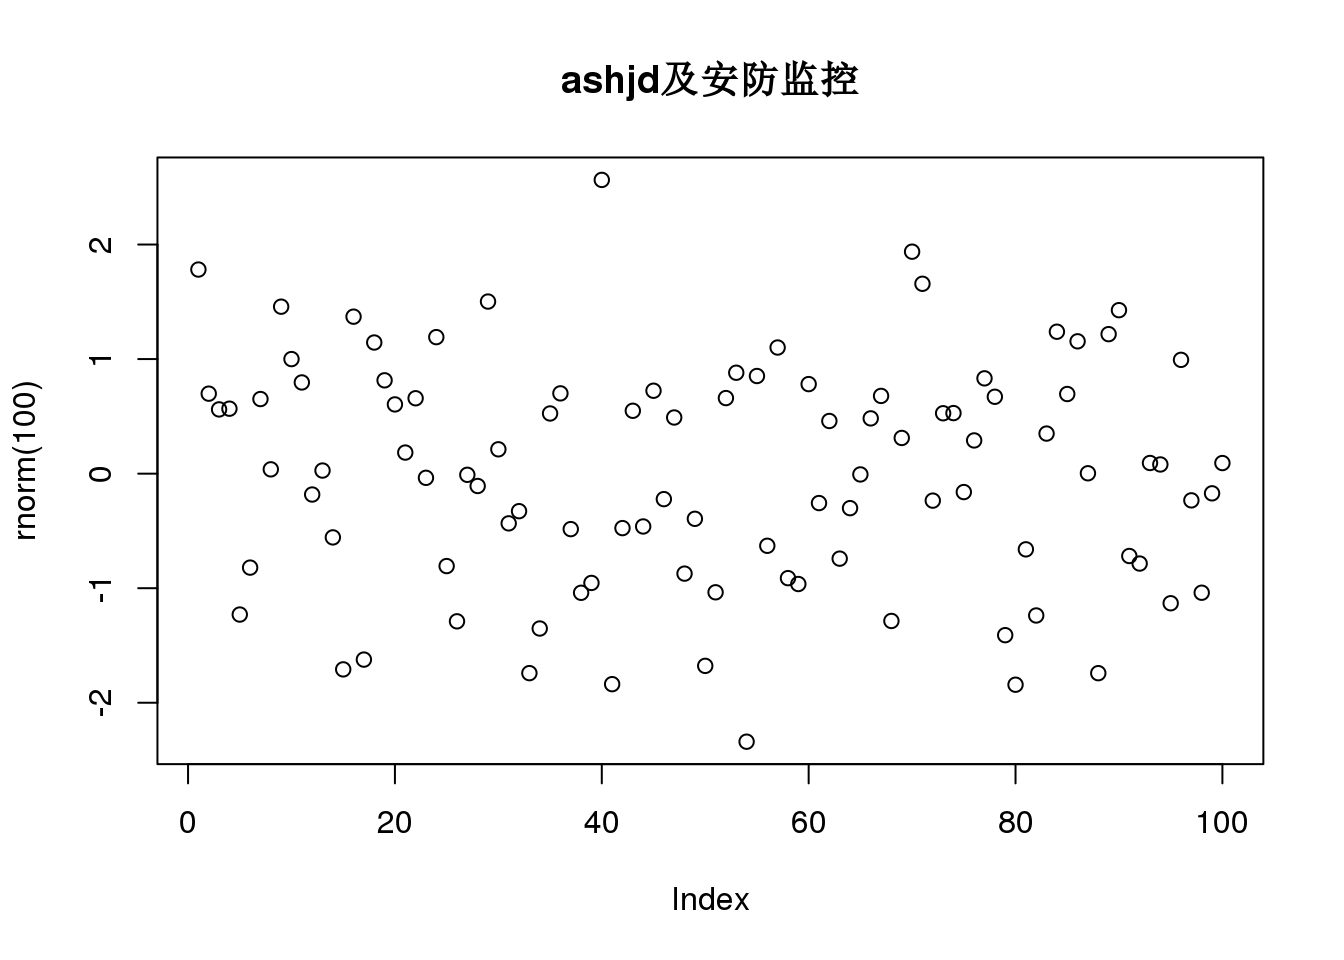
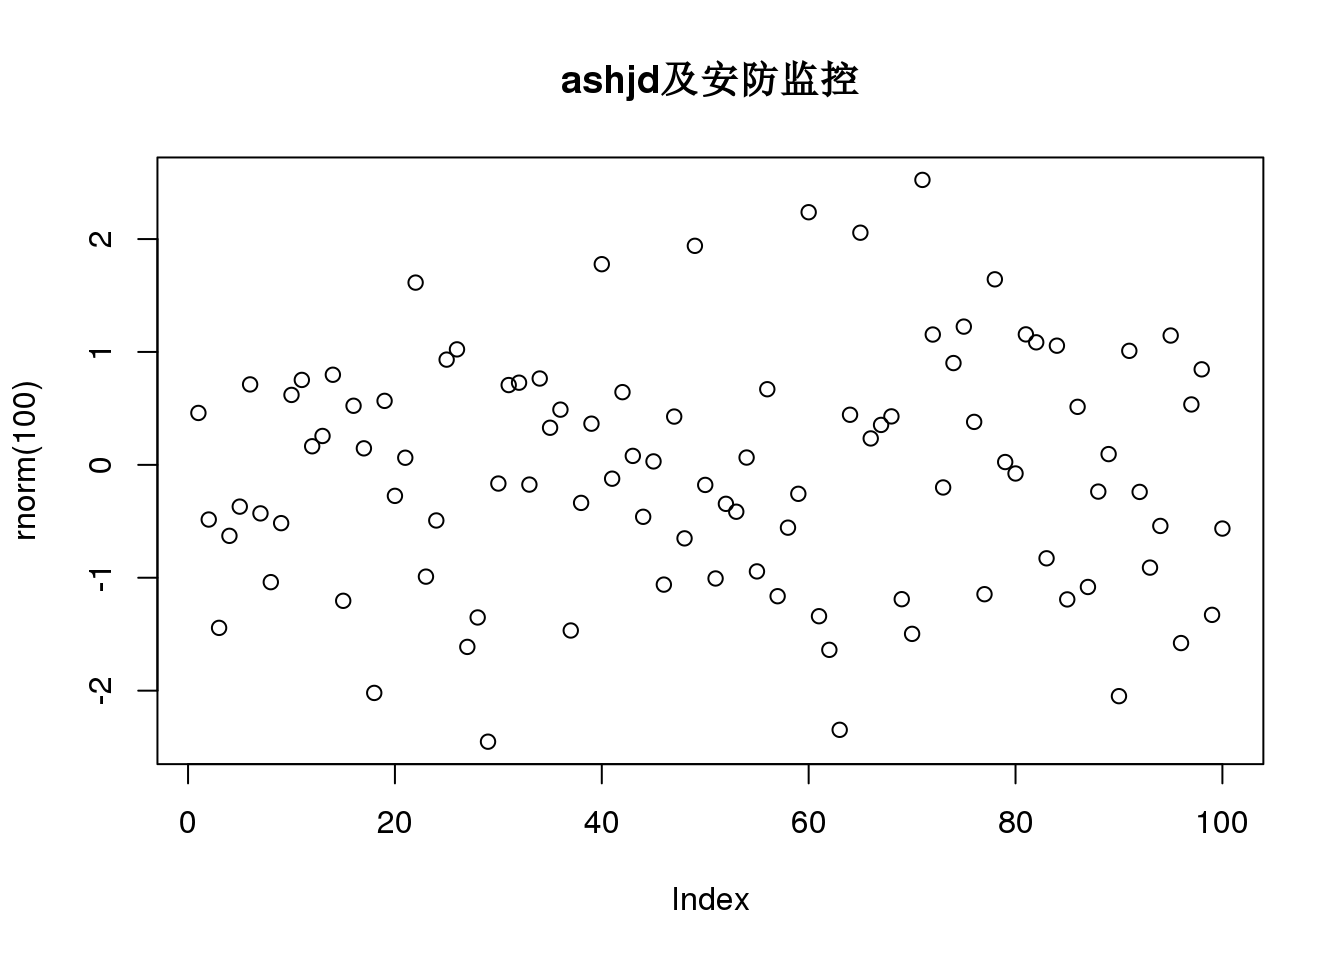
update

diff --git a/content/post/2018-02-05-try中嗯.html b/content/post/2018-02-05-try中嗯.html
@@ -14,3 +14,5 @@ tags:
 
 <pre class="r"><code>plot(rnorm(100), main = &quot;ashjd及安防监控&quot;)</code></pre>
 <p><img src="/post/2018-02-05-try%E4%B8%AD%E5%97%AF_files/figure-html/unnamed-chunk-1-1.png" width="672" /></p>
+<pre class="r"><code>plot(rnorm(100), main = &quot;ashjd及安防监控&quot;)</code></pre>
+<p><img src="/post/2018-02-05-try%E4%B8%AD%E5%97%AF_files/figure-html/unnamed-chunk-2-1.png" width="672" /></p>
